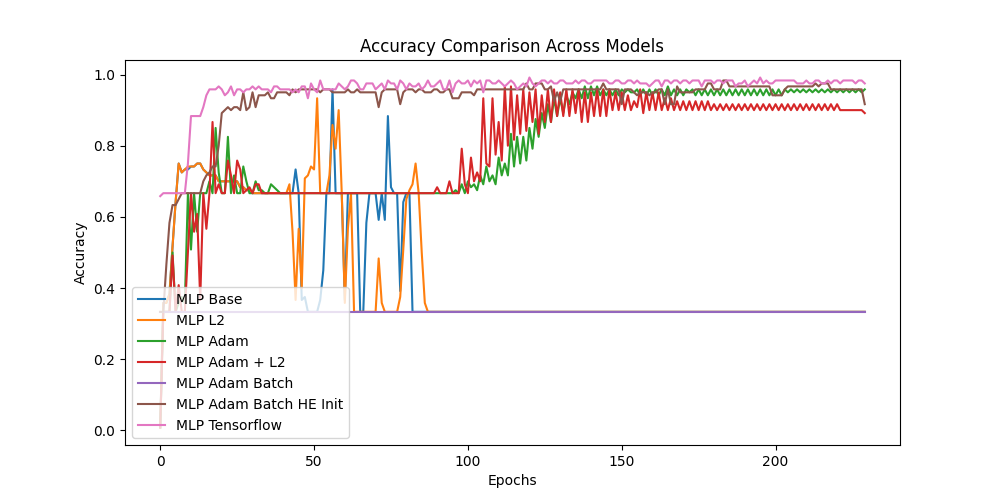
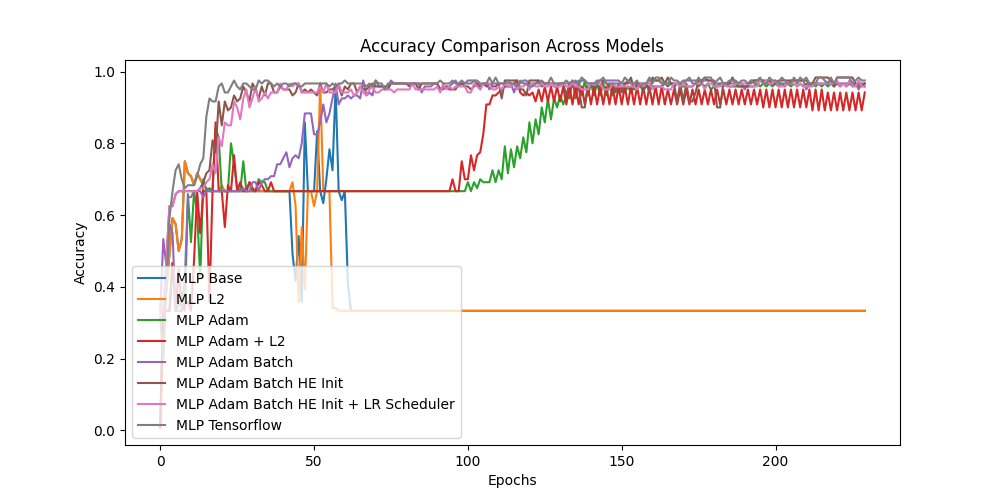
-lrScheduler experiment

diff --git a/src/models/MLP_ADAM_batch_HE_lrScheduler.py b/src/models/MLP_ADAM_batch_HE_lrScheduler.py
@@ -1,0 +1,124 @@
+import numpy as np
+
+def train(X_train, y_train, X_test, y_test, epochs=230, learning_rate=0.01, batch_size=32, lr_scheduler=True, step_size=10, gamma=0.99):
+    def relu(x):
+        return np.maximum(0, x)
+
+    def relu_derivative(x):
+        return (x > 0).astype(float)
+
+    def softmax(x):
+        exp_x = np.exp(x - np.max(x, axis=1, keepdims=True))
+        return exp_x / np.sum(exp_x, axis=1, keepdims=True)
+
+    def softmax_derivative(output, y):
+        return output - y
+
+    input_size = X_train.shape[1]
+    hidden_size_1 = 10
+    hidden_size_2 = 8
+    output_size = y_train.shape[1]
+
+    np.random.seed(42)
+
+    # Initialize weights using He initialization
+    W1 = np.random.randn(input_size, hidden_size_1) * np.sqrt(2 / input_size)
+    W2 = np.random.randn(hidden_size_1, hidden_size_2) * np.sqrt(2 / hidden_size_1)
+    W3 = np.random.randn(hidden_size_2, output_size) * np.sqrt(2 / hidden_size_2)
+
+    # Biases initialized to zero
+    b1 = np.zeros((1, hidden_size_1))
+    b2 = np.zeros((1, hidden_size_2))
+    b3 = np.zeros((1, output_size))
+
+    beta1, beta2, epsilon = 0.9, 0.999, 1e-8  # Hyperparameters for Adam
+
+    # Initialize moment estimates for Adam (first moment, second moment)
+    mW1, vW1, mb1, vb1 = np.zeros_like(W1), np.zeros_like(W1), np.zeros_like(b1), np.zeros_like(b1)
+    mW2, vW2, mb2, vb2 = np.zeros_like(W2), np.zeros_like(W2), np.zeros_like(b2), np.zeros_like(b2)
+    mW3, vW3, mb3, vb3 = np.zeros_like(W3), np.zeros_like(W3), np.zeros_like(b3), np.zeros_like(b3)
+
+    def compute_loss(y_pred, y_true):
+        m = y_true.shape[0]
+        return -np.sum(y_true * np.log(y_pred + 1e-8)) / m
+
+    loss_history, accuracy_history = [], []
+
+    for epoch in range(epochs):
+        # Shuffle data before each epoch
+        indices = np.arange(X_train.shape[0])
+        np.random.shuffle(indices)
+        X_train, y_train = X_train[indices], y_train[indices]
+
+        for i in range(0, X_train.shape[0], batch_size):
+            X_batch = X_train[i:i+batch_size]
+            y_batch = y_train[i:i+batch_size]
+
+            # Forward pass
+            Z1 = np.dot(X_batch, W1) + b1
+            A1 = relu(Z1)
+            Z2 = np.dot(A1, W2) + b2
+            A2 = relu(Z2)
+            Z3 = np.dot(A2, W3) + b3
+            A3 = softmax(Z3)
+
+            # Compute loss
+            loss = compute_loss(A3, y_batch)
+
+            # Backpropagation
+            dZ3 = softmax_derivative(A3, y_batch)
+            dW3 = np.dot(A2.T, dZ3)
+            db3 = np.sum(dZ3, axis=0, keepdims=True)
+
+            dZ2 = np.dot(dZ3, W3.T) * relu_derivative(Z2)
+            dW2 = np.dot(A1.T, dZ2)
+            db2 = np.sum(dZ2, axis=0, keepdims=True)
+
+            dZ1 = np.dot(dZ2, W2.T) * relu_derivative(Z1)
+            dW1 = np.dot(X_batch.T, dZ1)
+            db1 = np.sum(dZ1, axis=0, keepdims=True)
+
+            # Adam optimizer updates
+            for param, dparam, m, v in zip([W1, W2, W3, b1, b2, b3],
+                                           [dW1, dW2, dW3, db1, db2, db3],
+                                           [mW1, mW2, mW3, mb1, mb2, mb3],
+                                           [vW1, vW2, vW3, vb1, vb2, vb3]):
+                m = beta1 * m + (1 - beta1) * dparam
+                v = beta2 * v + (1 - beta2) * (dparam ** 2)
+                m_hat = m / (1 - beta1 ** (epoch + 1))
+                v_hat = v / (1 - beta2 ** (epoch + 1))
+                param -= learning_rate * m_hat / (np.sqrt(v_hat) + epsilon)
+
+        # Update learning rate with scheduler
+        if lr_scheduler and epoch != 0:
+            learning_rate *= gamma
+            print(learning_rate)
+        # Compute training accuracy at the end of the epoch
+        Z1_train = np.dot(X_train, W1) + b1
+        A1_train = relu(Z1_train)
+        Z2_train = np.dot(A1_train, W2) + b2
+        A2_train = relu(Z2_train)
+        Z3_train = np.dot(A2_train, W3) + b3
+        A3_train = softmax(Z3_train)
+
+        predictions_train = np.argmax(A3_train, axis=1)
+        y_train_classes = np.argmax(y_train, axis=1)
+        accuracy_train = np.mean(predictions_train == y_train_classes)
+
+        loss_history.append(loss)
+        accuracy_history.append(accuracy_train)
+
+    # Forward pass on the test set
+    Z1_test = np.dot(X_test, W1) + b1
+    A1_test = relu(Z1_test)
+    Z2_test = np.dot(A1_test, W2) + b2
+    A2_test = relu(Z2_test)
+    Z3_test = np.dot(A2_test, W3) + b3
+    A3_test = softmax(Z3_test)
+
+    # Compute predictions and accuracy
+    predictions = np.argmax(A3_test, axis=1)
+    y_test_classes = np.argmax(y_test, axis=1)
+    accuracy = np.mean(predictions == y_test_classes)
+        
+    return loss_history, accuracy_history, predictions, y_test_classes, accuracy

diff --git a/src/main.py b/src/main.py
@@ -10,6 +10,8 @@ from src.models.MLP_ADAM_L2 import train as train_MLP_ADAM_L2
 from src.models.MLP_tf import train as train_MLP_tf
 from src.models.MLP_ADAM_batch import train as train_MLP_ADAM_batch
 from src.models.MLP_ADAM_batch_HE_init import train as train_MLP_ADAM_batch_HE_init
+from src.models.MLP_ADAM_batch_HE_lrScheduler import train as train_MLP_ADAM_batch_HE_lrScheduler
+
 
 from src.visualization.explore_data import analyze_data
 from src.visualization.analyze_training_results import analyze_training_results
@@ -25,6 +27,7 @@ def main():
         "MLP Adam + L2": train_MLP_ADAM_L2,
         "MLP Adam Batch": train_MLP_ADAM_batch,
         "MLP Adam Batch HE Init": train_MLP_ADAM_batch_HE_init,
+        "MLP Adam Batch HE Init + LR Scheduler": train_MLP_ADAM_batch_HE_lrScheduler,
         "MLP Tensorflow": train_MLP_tf
     }
 

diff --git a/src/models/MLP_tf.py b/src/models/MLP_tf.py
@@ -11,7 +11,7 @@ def train(X_train, y_train, X_test, y_test, epochs=230, learning_rate=0.01):
     optimizer = tf.keras.optimizers.Adam(learning_rate=learning_rate)
     model.compile(optimizer=optimizer, loss='categorical_crossentropy', metrics=['accuracy'])
     
-    history = model.fit(X_train, y_train, epochs=epochs, verbose=1, validation_data=(X_test, y_test))
+    history = model.fit(X_train, y_train, epochs=epochs, verbose=0, validation_data=(X_test, y_test))
     
     loss, accuracy = model.evaluate(X_test, y_test, verbose=0)
     
